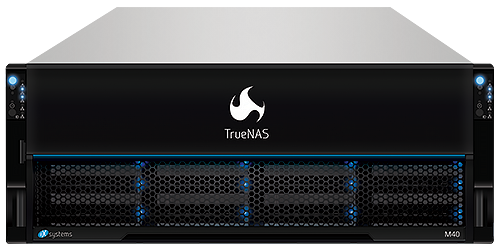
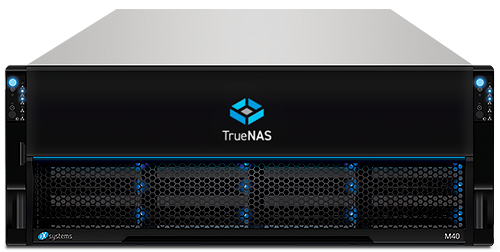
NAS-112144: M30 support in enclosure UI

diff --git a/src/app/pages/dashboard/components/widget-sys-info/widget-sys-info.component.ts b/src/app/pages/dashboard/components/widget-sys-info/widget-sys-info.component.ts
@@ -246,6 +246,9 @@ export class WidgetSysInfoComponent extends WidgetComponent implements OnDestroy
     } else if (sys_product.includes('X20')) {
       this.product_image = '/servers/X20.png';
       this.product_model = 'X20';
+    } else if (sys_product.includes('M30')) {
+      this.product_image = '/servers/M30.png';
+      this.product_model = 'M30';
     } else if (sys_product.includes('M40')) {
       this.product_image = '/servers/M40.png';
       this.product_model = 'M40';
